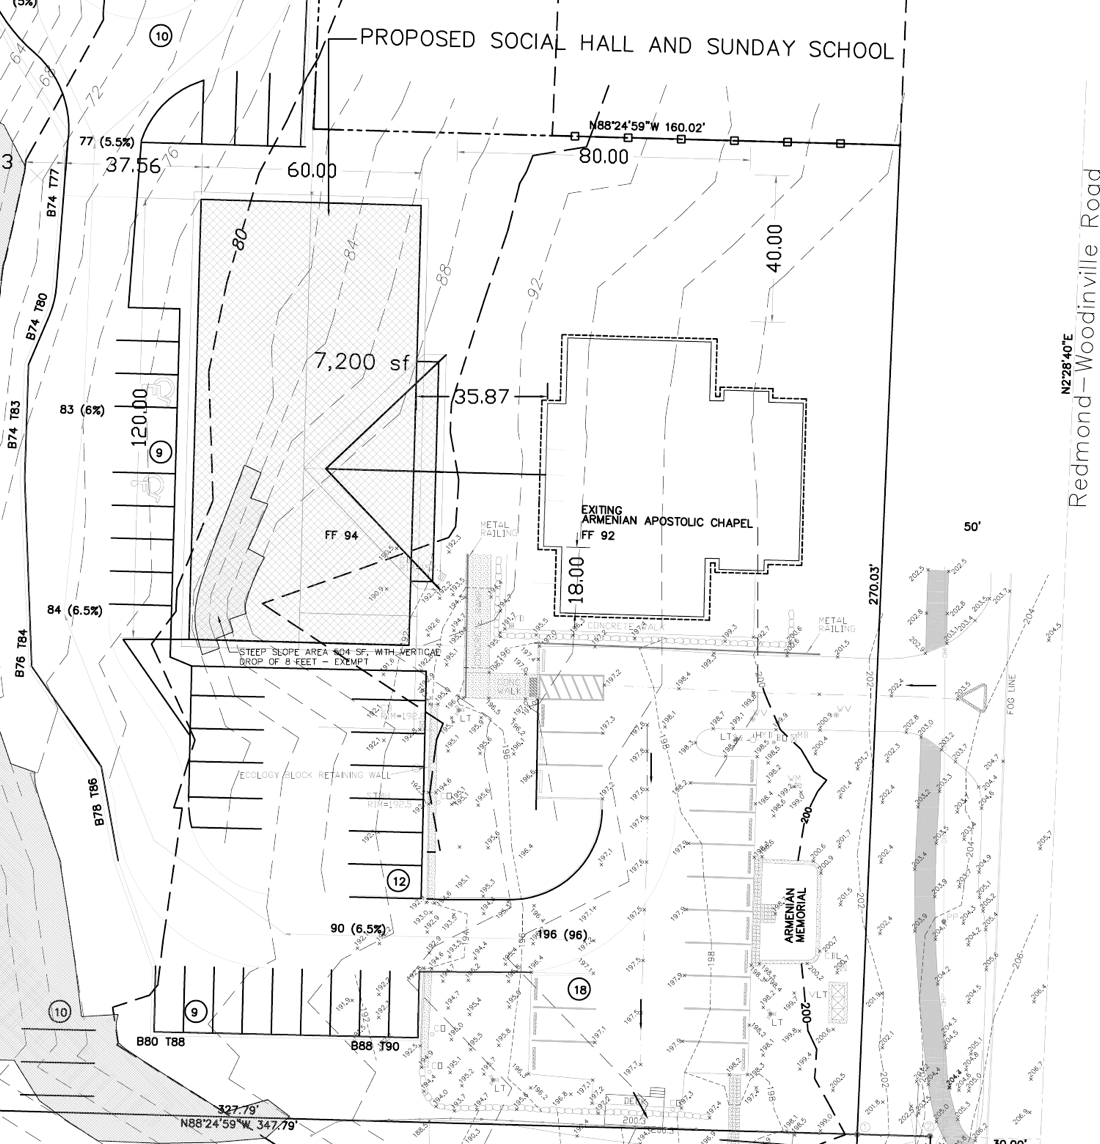
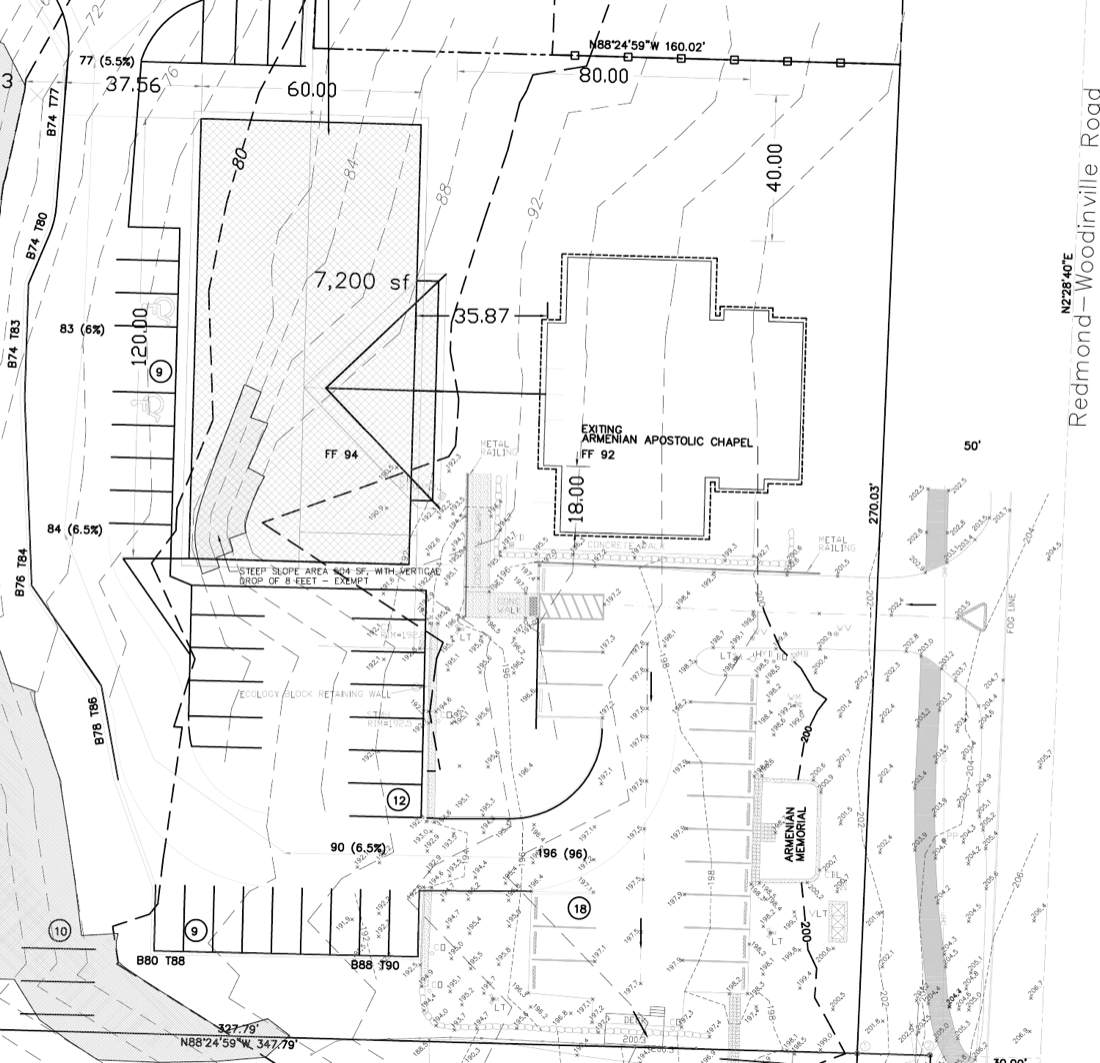
Add files via upload

diff --git a/index.html b/index.html
@@ -4,13 +4,13 @@
   <meta charset="utf-8">
   <meta name="viewport" content="width=device-width, initial-scale=1">
   <title>Armenian Community Center in Redmond</title>
-  <meta name="description" content="Help build a new Armenian Community Center and School beside our church in Redmond, WA: classrooms for 130 students, a 250-guest hall and a commercial kitchen.">
+  <meta name="description" content="Help build a new Armenian Community Center beside our church in Redmond, WA: learning spaces for 130 people, language classes for children, a 250-guest hall and a commercial kitchen.">
   <link rel="canonical" href="https://armenianheritagecenter.org/">
   <meta name="theme-color" content="#1b2a41">
 
   <meta property="og:type" content="website">
   <meta property="og:title" content="Armenian Community Center in Redmond">
-  <meta property="og:description" content="A home that belongs to all of us. Be one of 200 Founding Families building our new Community Center and School.">
+  <meta property="og:description" content="A home that belongs to all of us. Be one of 200 Founding Families building our new Community Center.">
   <meta property="og:url" content="https://armenianheritagecenter.org/">
   <meta property="og:image" content="https://armenianheritagecenter.org/assets/img/og-image.jpg">
   <meta name="twitter:card" content="summary_large_image">
@@ -51,7 +51,7 @@
       <div class="wrap page-hero-grid">
         <div class="page-hero-copy">
           <p class="eyebrow">Redmond, Washington</p>
-          <h1>Armenian Community Center &amp; School</h1>
+          <h1>Armenian Community Center</h1>
           <p class="page-hero-sub">A home that belongs to all of us</p>
         </div>
         <figure>
@@ -66,10 +66,10 @@
 
         <div class="intro-story">
           <p class="eyebrow">The campaign</p>
-          <h2>Our school has outgrown its home</h2>
-          <p class="lede">For decades our Armenian school has served families across greater Seattle. Today our students learn in the rooms of an old house, and our weddings, concerts and holidays happen in rented halls.</p>
-          <p>Together, we're building a two-story Community Center and School right beside our church in Redmond, with classrooms for 130 students, a 250-guest hall with a stage, and a commercial kitchen.</p>
-          <p><b>The plan is simple: 200 Founding Families giving $100 a month for three years.</b> After that, renting the hall, kitchen and classrooms on days we aren't using them keeps the center self-supporting.</p>
+          <h2>Our community has outgrown its space</h2>
+          <p class="lede">For decades our community has passed the Armenian language and culture on to its children. Today they learn in the rooms of an old house, and our weddings, concerts and holidays happen in rented halls.</p>
+          <p>Together, we're building a two-story Community Center right beside our church in Redmond: learning spaces for 130 people, a 250-guest hall with a stage, and a commercial kitchen. Children will learn the Armenian language here, along with other languages spoken across the Redmond community.</p>
+          <p><b>The plan is simple: 200 Founding Families giving $100 a month for three years.</b> After that, renting the hall, kitchen and learning rooms on days we aren't using them keeps the center self-supporting.</p>
         </div>
 
         <aside class="intro-box" aria-labelledby="give-title">
@@ -100,10 +100,10 @@
 
         <div class="intro-more">
           <div class="stats" role="list">
-            <div class="stat" role="listitem"><div class="stat-num">130</div><div class="stat-label">students learning at once</div></div>
+            <div class="stat" role="listitem"><div class="stat-num">130</div><div class="stat-label">people in our learning spaces at once</div></div>
             <div class="stat" role="listitem"><div class="stat-num">250</div><div class="stat-label">guests in our own hall</div></div>
             <div class="stat" role="listitem"><div class="stat-num">~60</div><div class="stat-label">new parking spaces</div></div>
-            <div class="stat" role="listitem"><div class="stat-num">2</div><div class="stat-label">floors: school below, hall above</div></div>
+            <div class="stat" role="listitem"><div class="stat-num">2</div><div class="stat-label">floors: learning below, hall above</div></div>
           </div>
 
           <div>
@@ -112,17 +112,17 @@
               <div class="compare-head" aria-hidden="true"><span class="from">Today</span><span class="to">With the new center</span></div>
 
               <div class="compare-row">
-                <div class="compare-label">Students</div>
-                <div class="compare-from"><span><b>80</b> students, and demand for more</span></div>
+                <div class="compare-label">Learning</div>
+                <div class="compare-from"><span><b>80</b> children today, and demand for more</span></div>
                 <div class="compare-arrow" aria-hidden="true"><svg viewBox="0 0 24 24" fill="none" stroke="currentColor" stroke-width="2.5" stroke-linecap="round" stroke-linejoin="round"><path d="M5 12h14M13 6l6 6-6 6"/></svg></div>
-                <div class="compare-to"><span>Classrooms for <b>130</b> students at once</span></div>
+                <div class="compare-to"><span>Learning spaces for <b>130</b> people at once</span></div>
               </div>
 
               <div class="compare-row">
-                <div class="compare-label">Classrooms</div>
+                <div class="compare-label">Rooms</div>
                 <div class="compare-from"><span>Rooms in an old house, the kitchen among them</span></div>
                 <div class="compare-arrow" aria-hidden="true"><svg viewBox="0 0 24 24" fill="none" stroke="currentColor" stroke-width="2.5" stroke-linecap="round" stroke-linejoin="round"><path d="M5 12h14M13 6l6 6-6 6"/></svg></div>
-                <div class="compare-to"><span>Purpose-built classrooms, a gym and club rooms</span></div>
+                <div class="compare-to"><span>Purpose-built learning rooms, a gym and club rooms</span></div>
               </div>
 
               <div class="compare-row">
@@ -164,8 +164,8 @@
 
         <div class="plan-notes">
           <div class="plan-note">
-            <h3>Plus church, school and a loan</h3>
-            <p>Community pledges are combined with existing church and school support and a construction loan to cover the full cost.</p>
+            <h3>Plus church support and a loan</h3>
+            <p>Community pledges are combined with existing church support and a construction loan to cover the full cost.</p>
           </div>
           <div class="plan-note">
             <h3>Volunteers cut the cost</h3>
@@ -173,7 +173,7 @@
           </div>
           <div class="plan-note">
             <h3>Then it pays its own way</h3>
-            <p>After year three, renting the hall, kitchen and classrooms on days we aren't using them keeps the center self-supporting.</p>
+            <p>After year three, renting the hall, kitchen and learning rooms on days we aren't using them keeps the center self-supporting.</p>
           </div>
         </div>
 
@@ -213,22 +213,22 @@
         <div class="section-head">
           <p class="eyebrow">What we're building</p>
           <h2>Two floors: one to learn, one to celebrate</h2>
-          <p class="lede">The preliminary plans put the school downstairs and a banquet and concert hall upstairs, so classes, clubs and family milestones each have room to grow.</p>
+          <p class="lede">The preliminary plans put learning spaces downstairs and a banquet and concert hall upstairs, so language classes, clubs and family milestones each have room to grow.</p>
         </div>
 
         <div class="floors">
           <article class="floor">
             <a class="floor-img" href="assets/img/floor-1.jpg" aria-label="Open the first floor plan full size">
-              <img src="assets/img/floor-1.jpg" width="1500" height="933" loading="lazy" alt="First floor plan showing four classrooms, a gym, chess, arts and crafts and computer clubs, and a lobby">
+              <img src="assets/img/floor-1.jpg" width="1500" height="933" loading="lazy" alt="First floor plan showing learning rooms, a gym, chess, arts and crafts and computer clubs, and a lobby">
             </a>
             <div class="floor-body">
               <p class="eyebrow">First floor</p>
-              <h3>School and clubs</h3>
+              <h3>Learning and clubs</h3>
               <ul class="ticks">
-                <li><b>Classrooms</b> sized for 130 students</li>
-                <li><b>A gym</b> for sports and assemblies</li>
+                <li><b>Learning rooms</b> for up to 130 people at once</li>
+                <li><b>Language classes for children</b> in Armenian and other languages spoken across Redmond</li>
                 <li><b>Club rooms</b> for chess, arts and crafts, music and computers</li>
-                <li>A welcoming lobby, storage and utilities</li>
+                <li><b>A gym</b> for sports and gatherings, plus a lobby and storage</li>
               </ul>
             </div>
           </article>
@@ -262,16 +262,16 @@
             </figure>
             <figure class="fig fig-plan">
               <a href="assets/img/site-plan.png" aria-label="Open the preliminary site plan full size">
-                <img src="assets/img/site-plan.png" width="1100" height="1144" loading="lazy" alt="Preliminary site plan drawing showing the proposed social hall and school, shaded, to the west of the existing Armenian Apostolic chapel, with surrounding parking">
+                <img src="assets/img/site-plan.png" width="1100" height="1063" loading="lazy" alt="Preliminary site plan drawing showing the proposed building to the west of the existing Armenian Apostolic chapel, with surrounding parking">
               </a>
-              <figcaption>From the preliminary site plan, October 2026: the proposed hall and school, west of the existing chapel</figcaption>
+              <figcaption>From the preliminary site plan, October 2026: the proposed building, west of the existing chapel</figcaption>
             </figure>
           </div>
           <ul class="reasons">
             <li><b>Permits are simpler</b>An existing Conditional Use Permit eases pre-construction</li>
             <li><b>Lower road costs</b>It avoids costly Redmond-Woodinville Road improvements</li>
             <li><b>Easy utilities</b>It connects easily to the church's sewer line</li>
-            <li><b>No disruption</b>Classes carry on while we build</li>
+            <li><b>No disruption</b>Current programs carry on while we build</li>
           </ul>
         </div>
       </div>
@@ -358,7 +358,11 @@
           </details>
           <details>
             <summary>Why monthly, and why three years?</summary>
-            <p>Steady monthly gifts give the project predictable funding for planning, permits and construction. Three years covers design, building and opening. After that, rental income from the hall, kitchen and classrooms is planned to keep the center self-supporting.</p>
+            <p>Steady monthly gifts give the project predictable funding for planning, permits and construction. Three years covers design, building and opening. After that, rental income from the hall, kitchen and learning rooms is planned to keep the center self-supporting.</p>
+          </details>
+          <details>
+            <summary>What will children learn here?</summary>
+            <p>The first floor is planned around learning: language classes for children in Armenian and in other languages spoken across the Redmond community, clubs for chess, arts and crafts, music and computers, and a gym for sports.</p>
           </details>
           <details>
             <summary>How much will the project cost?</summary>
@@ -406,7 +410,7 @@
               <span class="brand-sub">Redmond, Washington</span>
             </span>
           </a>
-          <p>A Community Center and School for the Armenian community of greater Seattle.</p>
+          <p>A community center for Armenian families of greater Seattle and our Redmond neighbors.</p>
         </div>
         <div>
           <h3>Contact</h3>
@@ -420,7 +424,7 @@
           <ul>
             <li><a href="donate.html?frequency=monthly&amp;amount=100">Donate</a></li>
             <li><a href="#transparency">Financials</a></li>
-            <li><a href="https://seattlearmenianschool.org/" rel="noopener">Seattle Armenian School</a></li>
+            <li><a href="#faq">FAQ</a></li>
           </ul>
         </div>
       </div>

diff --git a/donate.html b/donate.html
@@ -4,7 +4,7 @@
   <meta charset="utf-8">
   <meta name="viewport" content="width=device-width, initial-scale=1">
   <title>Donate · Armenian Community Center in Redmond</title>
-  <meta name="description" content="Give to the new Armenian Community Center and School in Redmond, WA. Become a Founding Family with $100 a month for three years.">
+  <meta name="description" content="Give to the new Armenian Community Center in Redmond, WA. Become a Founding Family with $100 a month for three years.">
   <link rel="canonical" href="https://armenianheritagecenter.org/donate.html">
   <meta name="theme-color" content="#1b2a41">
 
@@ -48,7 +48,7 @@
 
       <!-- Payment form -->
       <section class="pay-card" aria-labelledby="pay-title">
-        <p class="eyebrow">Community Center &amp; School</p>
+        <p class="eyebrow">Armenian Community Center</p>
         <h1 id="pay-title">Make your gift</h1>
 
         <form class="form" id="pay-form" novalidate>
@@ -92,7 +92,7 @@
 
           <div class="panel show" id="panel-paypal">
             <ol>
-              <li>On PayPal, choose the <b>Armenian School and Community Center Fund</b>.</li>
+              <li>On PayPal, choose the <b>Community Center</b> fund.</li>
               <li>Enter <b data-fill="amount">$100</b>.</li>
               <li data-show="monthly">Tick <b>Make this a monthly donation</b>.</li>
             </ol>
@@ -105,7 +105,7 @@
           <div class="panel" id="panel-check">
             <p>Make your check for <b data-fill="amount">$100</b> payable to <b>Armenian Apostolic Church of Seattle</b> and write <b>Community Center</b> in the memo line.</p>
             <address class="address">
-              Attn: Community Center and School Fund<br>
+              Attn: Community Center Fund<br>
               11505 Redmond-Woodinville Rd NE<br>
               Redmond, WA 98052
             </address>
@@ -171,11 +171,11 @@
       <!-- Side panel -->
       <aside class="pay-side">
         <img src="assets/img/street.jpg" width="1195" height="896" alt="Street view rendering of the church with the new Community Center beside it">
-        <h2 class="side-title">Armenian Community Center &amp; School</h2>
+        <h2 class="side-title">Armenian Community Center</h2>
         <div class="side-box">
           <p>Your gift builds a permanent home for our community, right beside our church in Redmond:</p>
           <ul class="ticks">
-            <li><b>Classrooms</b> for 130 students</li>
+            <li><b>Learning spaces</b> for 130 people, with language classes for children</li>
             <li><b>A 250-guest hall</b> with a stage and dance floor</li>
             <li><b>A commercial kitchen</b> for every celebration</li>
             <li><b>About 60 new</b> parking spaces</li>
@@ -203,7 +203,7 @@
               <span class="brand-sub">Redmond, Washington</span>
             </span>
           </a>
-          <p>A Community Center and School for the Armenian community of greater Seattle.</p>
+          <p>A community center for Armenian families of greater Seattle and our Redmond neighbors.</p>
         </div>
         <div>
           <h3>Contact</h3>
@@ -217,7 +217,7 @@
           <ul>
             <li><a href="./">The project</a></li>
             <li><a href="./#transparency">Financials</a></li>
-            <li><a href="https://seattlearmenianschool.org/" rel="noopener">Seattle Armenian School</a></li>
+            <li><a href="./#faq">FAQ</a></li>
           </ul>
         </div>
       </div>

diff --git a/README.md b/README.md
@@ -1,7 +1,15 @@
 # armenianheritagecenter.org
 
-Fundraising site for the Armenian Community Center and School in Redmond, WA.
+Fundraising site for the Armenian Community Center in Redmond, WA.
 Plain HTML and CSS, hosted on GitHub Pages. No build step.
+
+## Wording
+
+Describe the building as a community center. For the first floor, say
+"learning spaces" or "learning rooms for up to 130 people", and describe the
+programs: language classes for children in Armenian and other languages spoken
+across the Redmond community, plus clubs for chess, arts and crafts, music and
+computers.
 
 ## Pages
 
